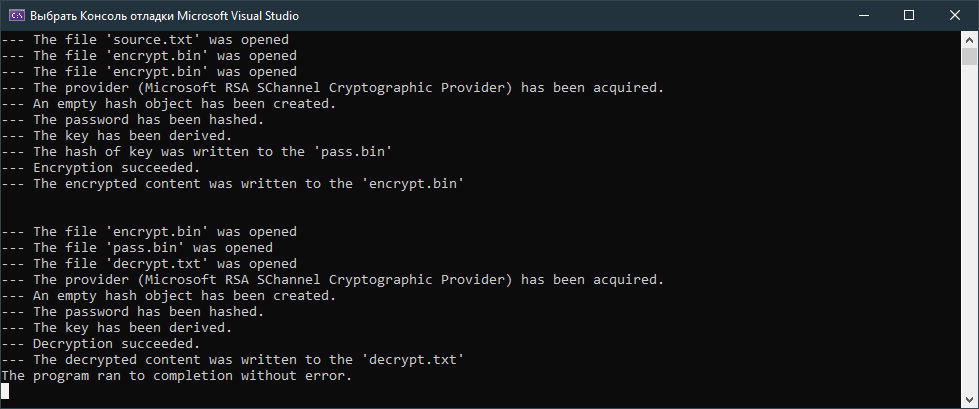
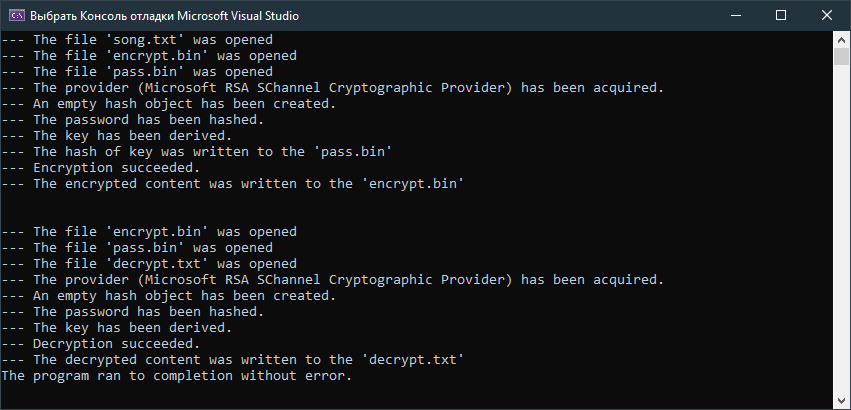
thonk...

diff --git a/protection_of_programs_and_data/lab-7/lab7.cpp b/protection_of_programs_and_data/lab-7/lab7.cpp
@@ -53,7 +53,7 @@ int main(void)
     //if(!fopen_s(&source, "source.txt", "r+b" ))
     if (fopen_s(&source, "song.txt", "rb"))
         HandleError("Problem opening the file 'source.txt'\n");
-    printf("--- The file 'source.txt' was opened\n");
+    printf("--- The file 'song.txt' was opened\n");
 
     // Открытие файла, в который будет производится запись зашифрованного файла.
     if (fopen_s(&Encrypt, "encrypt.bin", "wb"))
@@ -63,7 +63,7 @@ int main(void)
     // Открытие файла, в который будет производится запись хэша ключа.
     if (fopen_s(&pass, "pass.bin", "wb"))
         HandleError("Problem opening the file 'pass.bin'\n");
-    printf("--- The file 'encrypt.bin' was opened\n");
+    printf("--- The file 'pass.bin' was opened\n");
 
     // Открытие файла, в который производится запись вектора инициализации.
     //if (fopen_s(&vectorf, "vector.bin", "wb"))
